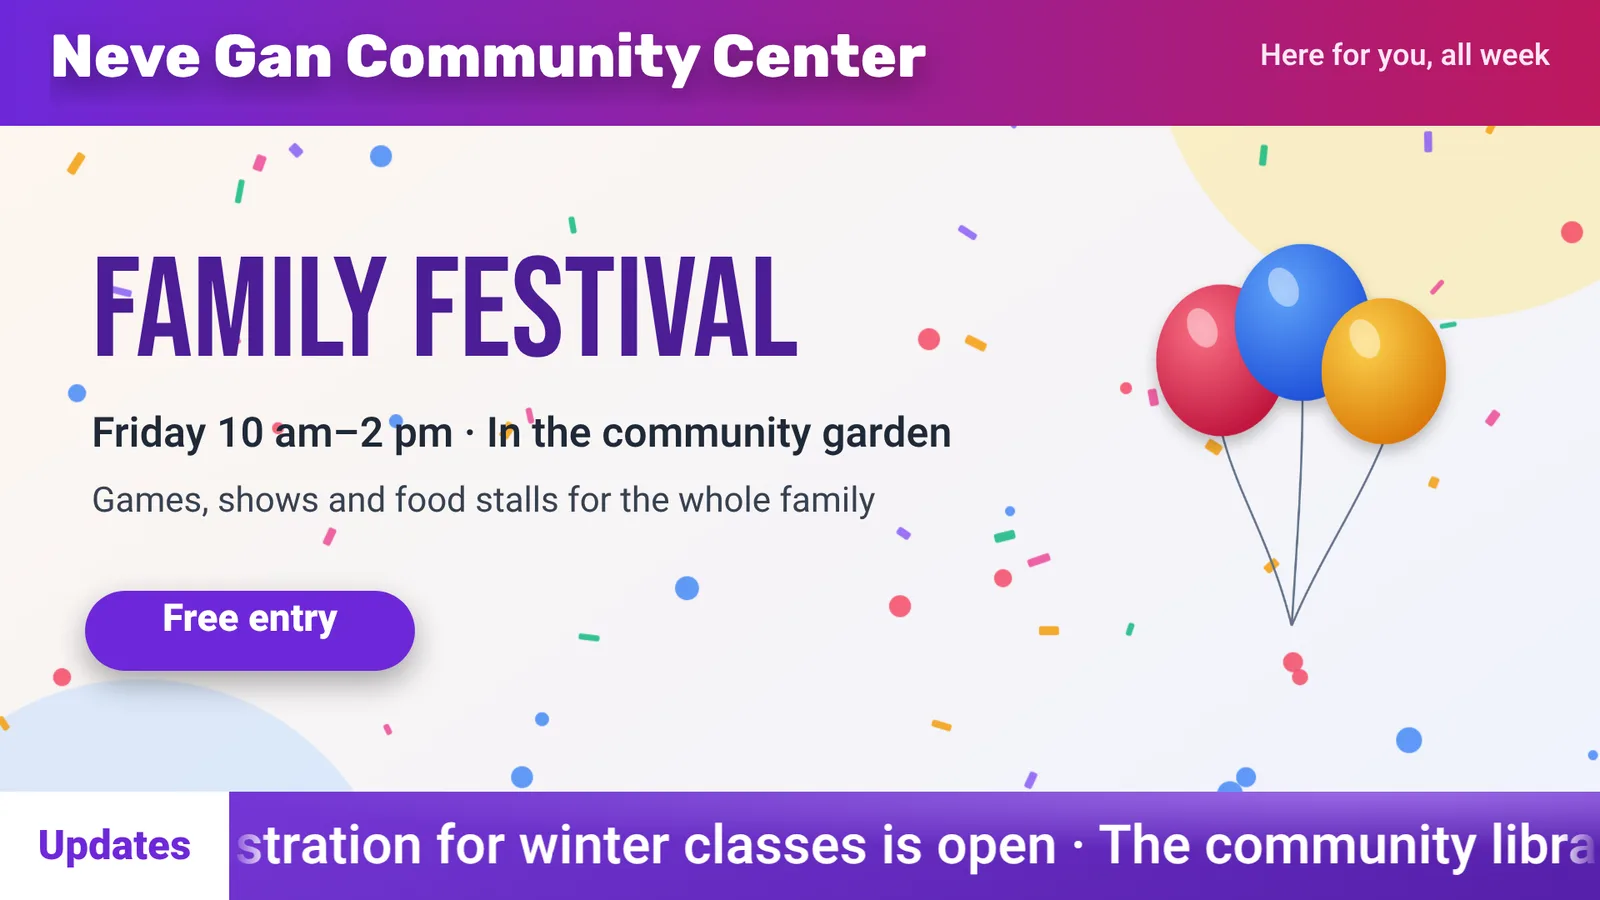
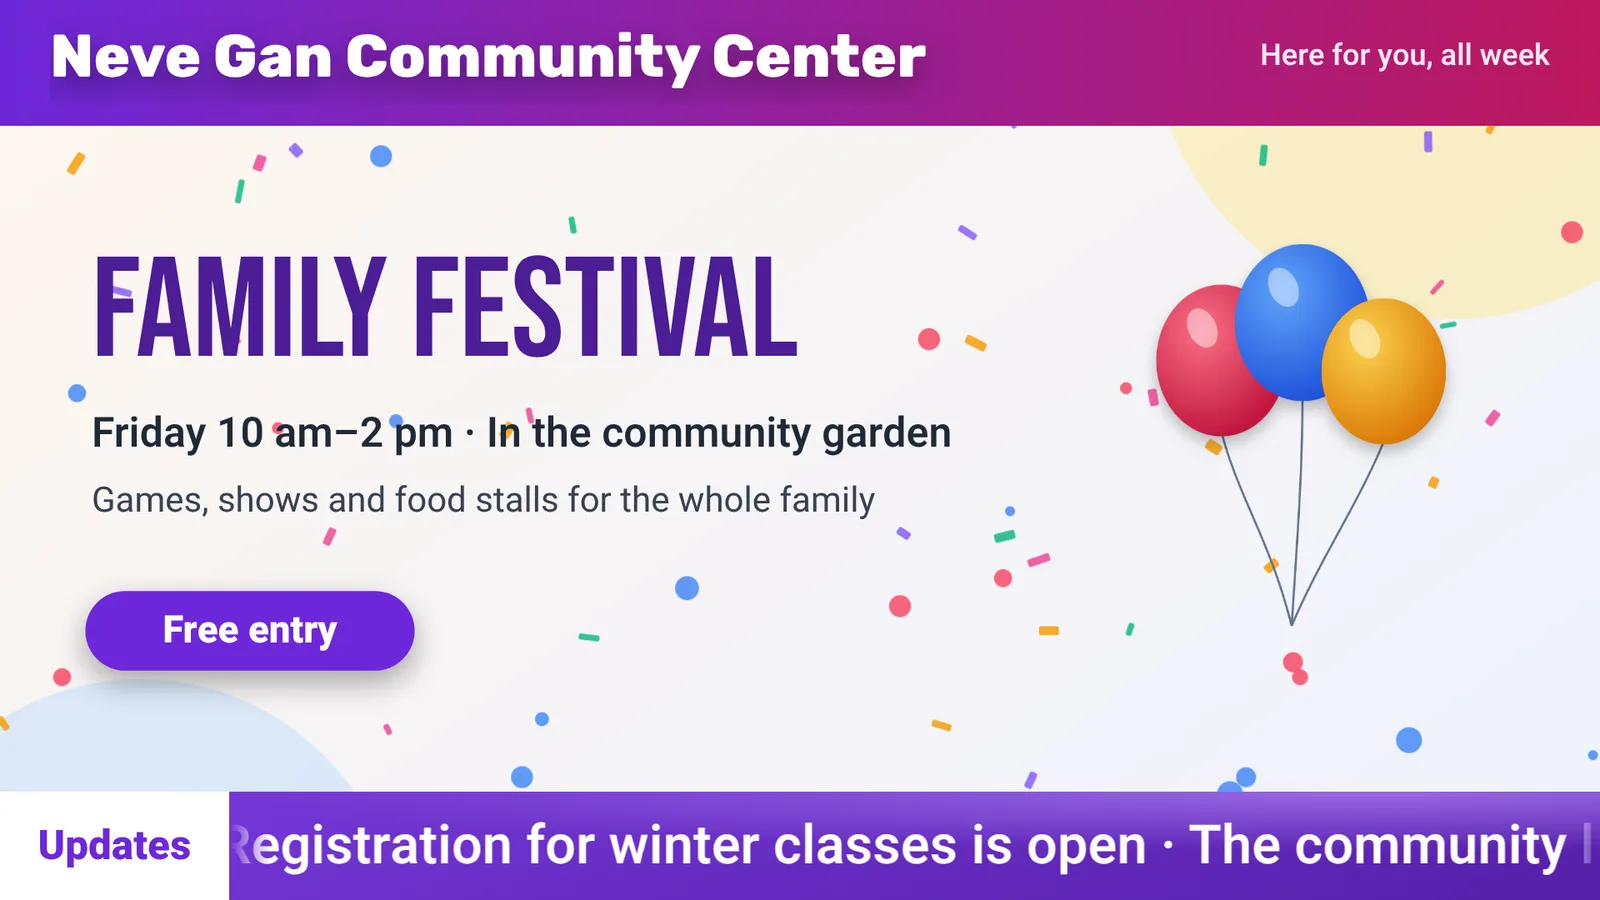
Designer: vertical position of text in its box
Text elements get a "valign" setting (top, middle, bottom; top by
default, so saved designs look the same). Buttons and badges in the
starter kits and the "special" template now center their text.
The office kit's welcome line is shorter in English, so it fits on one
line, and the kit pictures are regenerated.

Claude-Session: https://claude.ai/code/session_018pfScDfFmoUQkABWysE6Dr

Changed region(s): [[0.125, 0.9022, 1.0, 0.9644], [0.0938, 0.6533, 0.2188, 0.7156]]

diff --git a/packages/shared/test/design-effects.test.ts b/packages/shared/test/design-effects.test.ts
@@ -26,6 +26,7 @@ describe('design effects', () => {
     expect(style.backgroundImage).toBe('none');
     expect(style.letterSpacing).toBe('normal');
     expect(style.textShadow).toBeUndefined();
+    expect(style.display).toBeUndefined(); // text stays at the top of its box
     expect(designAnimationCss(t!, true)).toBeNull();
     expect(designCanvasStyle(config).backgroundImage).toBe('none');
   });
@@ -136,5 +137,19 @@ describe('design effects', () => {
     for (const name of DESIGN_LOOP_ANIMATIONS.filter((n) => n !== 'none')) {
       expect(css, name).toContain(`@keyframes rd-loop-${name} `);
     }
+  });
+
+  it('places text in the middle or at the bottom of its box', () => {
+    const parse = (valign: string) =>
+      designConfigSchema.parse({ elements: [{ ...text, valign }] }).elements[0]!;
+    expect(designElementStyle(parse('middle'))).toMatchObject({
+      display: 'flex',
+      flexDirection: 'column',
+      justifyContent: 'center',
+    });
+    expect(designElementStyle(parse('bottom')).justifyContent).toBe('flex-end');
+    expect(
+      designConfigSchema.safeParse({ elements: [{ ...text, valign: 'baseline' }] }).success,
+    ).toBe(false);
   });
 });

diff --git a/packages/shared/src/design.ts b/packages/shared/src/design.ts
@@ -88,6 +88,8 @@ export const designTextSchema = z.object({
   italic: z.boolean().default(false),
   color: color.default('#ffffff'),
   align: z.enum(['start', 'center', 'end']).default('center'),
+  /** Where the text sits in its box, top to bottom. */
+  valign: z.enum(['top', 'middle', 'bottom']).default('top'),
   lineHeight: z.number().min(0.8).max(3).default(1.2),
   font: z.enum(DESIGN_FONTS).default('heebo'),
   /** Extra space between letters, in em. */
@@ -219,6 +221,14 @@ export function designElementStyle(element: DesignElement): Record<string, strin
         : 'none',
       borderRadius: `${String(element.radius)}px`,
     });
+    if (element.valign !== 'top') {
+      // The text is the box's only content, so a column flexbox moves it down.
+      Object.assign(style, {
+        display: 'flex',
+        flexDirection: 'column',
+        justifyContent: element.valign === 'middle' ? 'center' : 'flex-end',
+      });
+    }
     // Text in a box casts its shadow from the box; bare text from the letters.
     if (element.shadow) {
       style[boxed ? 'boxShadow' : 'textShadow'] = shadowCss(element.shadow);

diff --git a/apps/cms/src/pages/design/Inspector.tsx b/apps/cms/src/pages/design/Inspector.tsx
@@ -257,6 +257,22 @@ export function Inspector({
                 </select>
               )}
             </Row>
+            <Row label={t('designer.valign')}>
+              {(id) => (
+                <select
+                  id={id}
+                  value={element.valign}
+                  onChange={(event) => {
+                    onElement({ valign: event.target.value as 'top' | 'middle' | 'bottom' });
+                  }}
+                  className={small}
+                >
+                  <option value="top">{t('designer.valignTop')}</option>
+                  <option value="middle">{t('designer.valignMiddle')}</option>
+                  <option value="bottom">{t('designer.valignBottom')}</option>
+                </select>
+              )}
+            </Row>
             <NumberRow
               label={t('designer.lineHeight')}
               value={element.lineHeight}

diff --git a/apps/cms/src/pages/design/templates.ts b/apps/cms/src/pages/design/templates.ts
@@ -24,6 +24,7 @@ const text = (
     italic: false,
     color: '#ffffff',
     align: 'center',
+    valign: 'top',
     lineHeight: 1.15,
     font: 'heebo',
     letterSpacing: 0,
@@ -321,6 +322,7 @@ export function designTemplate(template: DesignTemplate, t: TFunction): Design {
             fontSize: 84,
             color: '#1c1210',
             background: '#d4a373',
+            valign: 'middle',
             radius: 70,
             shadow: { x: 0, y: 14, blur: 40, color: '#000000aa' },
             animation: { enter: 'pop', delay: 900, duration: 800, loop: 'pulse' },

diff --git a/apps/server/src/modules/kits/kit-design.ts b/apps/server/src/modules/kits/kit-design.ts
@@ -68,7 +68,12 @@ export function design(
   };
 }
 
-export const text = (props: Element): Element => ({ kind: 'text', ...props });
+/** Text; in a box (a button, a badge) it sits in the middle of the box. */
+export const text = (props: Element): Element => ({
+  kind: 'text',
+  ...(props.background || props.backgroundGradient ? { valign: 'middle' } : {}),
+  ...props,
+});
 export const shape = (props: Element): Element => ({ kind: 'shape', ...props });
 export const image = (art: ArtName, props: Element): Element => ({
   kind: 'image',

diff --git a/apps/server/src/modules/kits/industry-kits.ts b/apps/server/src/modules/kits/industry-kits.ts
@@ -1197,7 +1197,7 @@ const office = (): StarterKit => {
                 text: pick(
                   locale,
                   'קבלת אורחים בקומה 3 · נא להירשם בעמדה או בקוד ה־QR',
-                  'Reception on floor 3 · Please sign in at the desk or with the QR code',
+                  'Reception on floor 3 · Sign in at the desk or by QR code',
                 ),
                 x,
                 y: 500,

diff --git a/apps/cms/src/i18n/locales/he.ts b/apps/cms/src/i18n/locales/he.ts
@@ -1153,6 +1153,10 @@ export const he = {
     fontWeight: 'עובי',
     color: 'צבע',
     align: 'יישור',
+    valign: 'מיקום אנכי',
+    valignTop: 'למעלה',
+    valignMiddle: 'באמצע',
+    valignBottom: 'למטה',
     lineHeight: 'ריווח שורות',
     italic: 'נטוי',
     textBackground: 'רקע לטקסט',

diff --git a/apps/cms/src/i18n/locales/en.ts b/apps/cms/src/i18n/locales/en.ts
@@ -1195,6 +1195,10 @@ export const en: Messages = {
     fontWeight: 'Weight',
     color: 'Color',
     align: 'Alignment',
+    valign: 'Vertical position',
+    valignTop: 'Top',
+    valignMiddle: 'Middle',
+    valignBottom: 'Bottom',
     lineHeight: 'Line height',
     italic: 'Italic',
     textBackground: 'Text background',

diff --git a/apps/cms/src/pages/design/model.ts b/apps/cms/src/pages/design/model.ts
@@ -32,6 +32,7 @@ export function textElement(design: Design, text: string): Element {
     italic: false,
     color: '#ffffff',
     align: 'center',
+    valign: 'top',
     lineHeight: 1.2,
     font: 'heebo',
     letterSpacing: 0,
